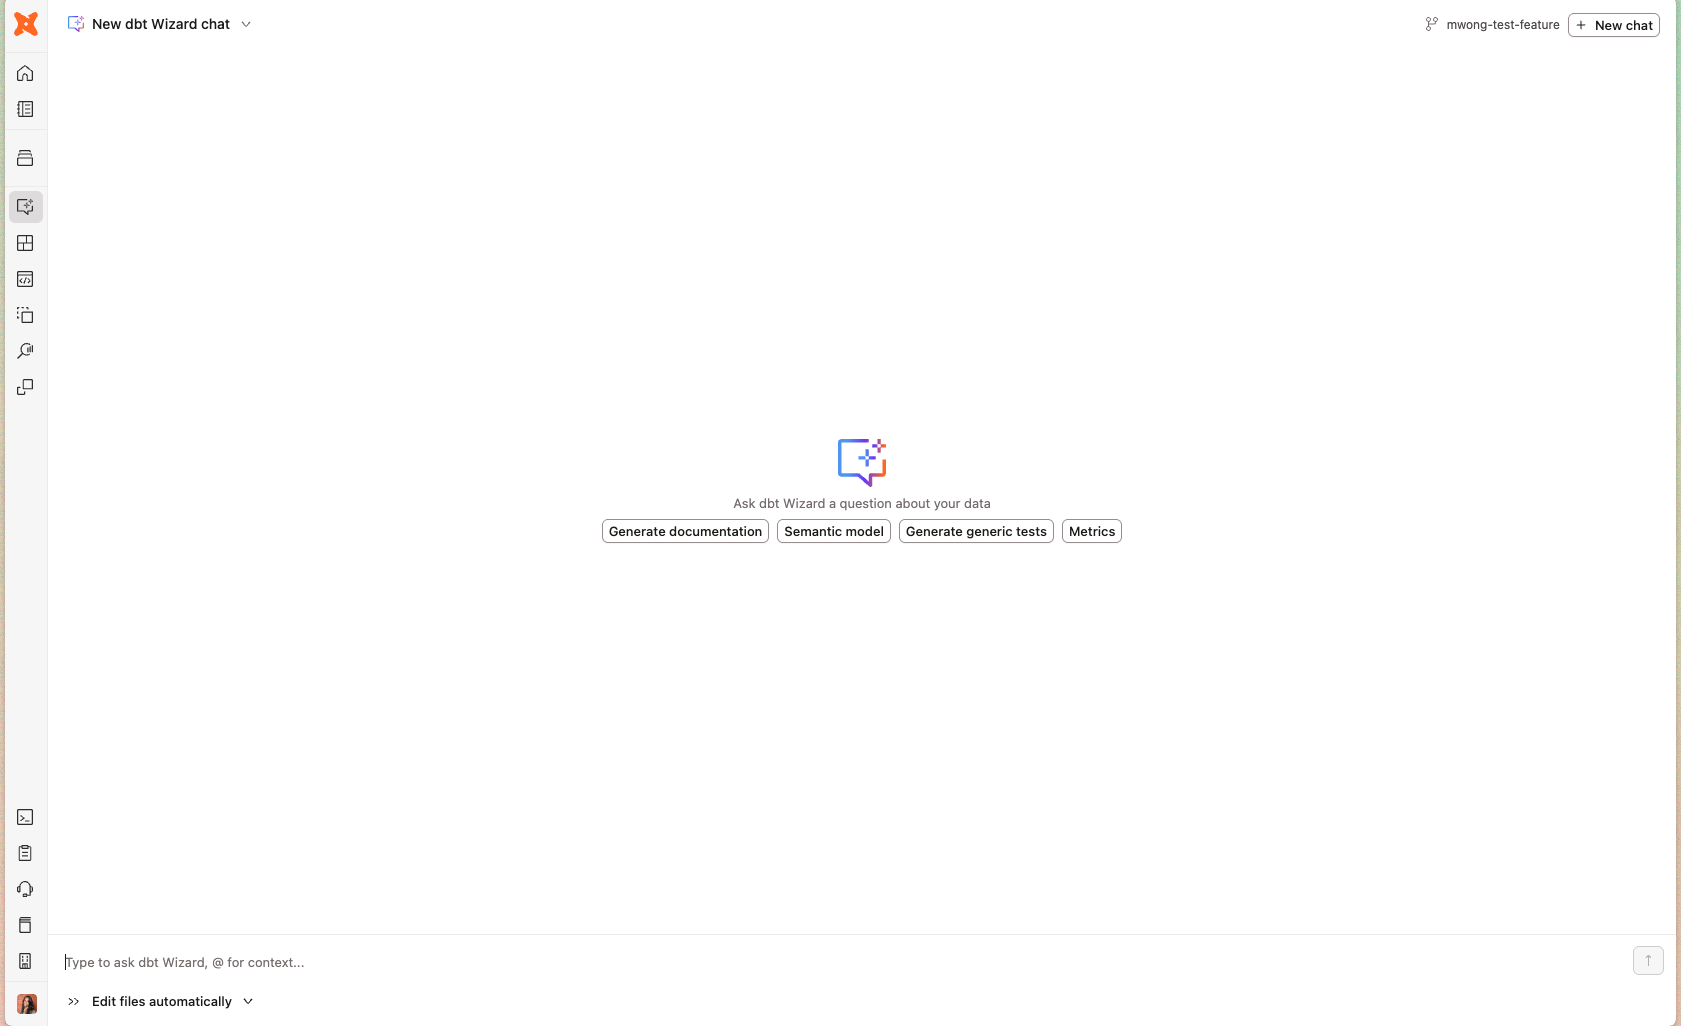
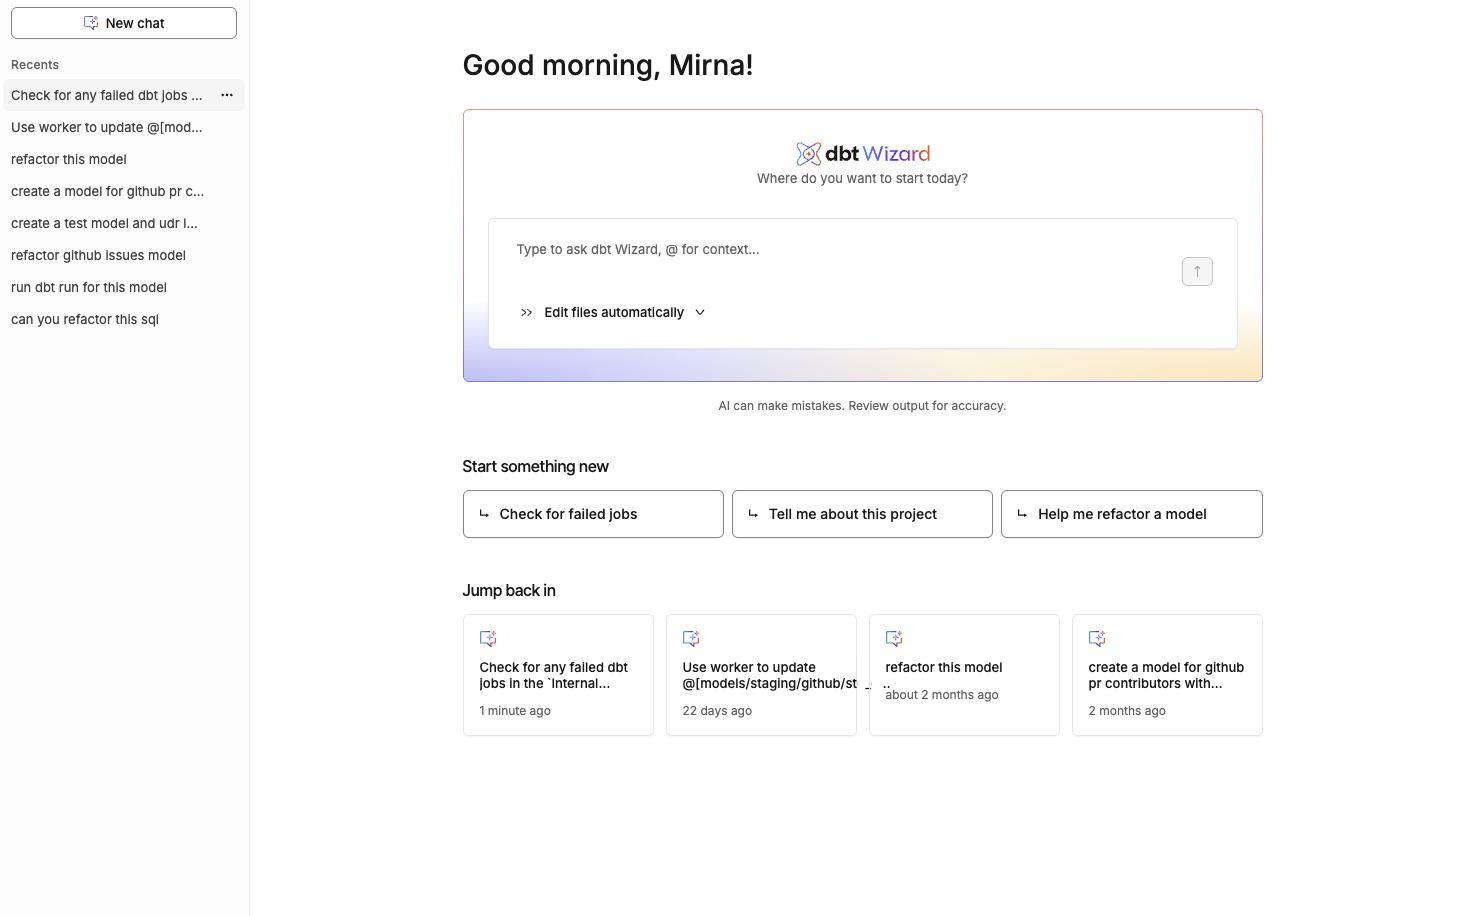
update wizard with new changes and ims=gs

diff --git a/website/docs/docs/platform/wizard-platform.md b/website/docs/docs/platform/wizard-platform.md
@@ -4,6 +4,7 @@ id: "wizard-platform"
 sidebar_label: "Overview"
 description: "dbt Wizard in the dbt platform helps teams investigate, change, validate, and ship trusted dbt work with warehouse-aware AI."
 hide_table_of_contents: false
+image: /img/docs/dbt-platform/wizard-home-empty.png
 tags: [AI, Wizard]
 keywords: ["dbt Wizard", "dbt platform", "AI", "agent", "dbt"]
 ---
@@ -18,12 +19,16 @@ import WizardFeedbackCallout from '/snippets/_wizard-feedback-callout.md';
 <Constant name="wizard" /> helps teams ship trusted dbt changes faster and with less risk. It uses native dbt metadata, routes to the right tools, and validates with warehouse awareness so teams can investigate, change, validate, and ship in one place.
 </IntroText>
 
-<WizardFeedbackCallout />
+<Constant name="wizard" /> is more than a general coding agent with access to dbt. Built for governed data development in dbt, it understands lineage, documentation, tests, and semantic definitions, and accounts for dev builds, compute, run time, and post-build inspection. Its suggestions are grounded in your project's actual data _and_ context. 
 
-<Constant name="wizard" /> is more than a general coding agent with access to dbt. Built for governed data development in dbt, it understands lineage, documentation, tests, and semantic definitions, and accounts for dev builds, compute, run time, and post-build inspection. Its suggestions are grounded in your project's actual data _and_ context.
-
-In [approval mode](/docs/dbt-ai/wizard-how-it-works#approval-and-review), <Constant name="wizard" /> shows every file change as a diff before anything is persisted. Built-in [dbt Agent Skills](https://github.com/dbt-labs/dbt-agent-skills) encode dbt best practices for consistent output.
 An admin must [enable <Constant name="wizard" />](/docs/platform/enable-dbt-ai) for your account before you can use it in the platform.
+
+<Constant name="dbt_wizard"/> comes with various features like:
+- Built in [agent mode](/docs/dbt-ai/wizard-ide?version=2.0#agent-modes) to help you manage agent control: 
+    - **Ask for approval** mode allows you to review and approval each file change before Wizard takes action
+    - **Edit files automatically** mode allows the agent to automatically make edits without approval.  
+- A simplified wayfinder bar shows your current project and branch and guides you through Git tasks, such as committing files or creating a branch.
+- Built-in [dbt Agent Skills](https://github.com/dbt-labs/dbt-agent-skills) encode dbt best practices for consistent output.
 
 <WizardSupportedProviders />
 

diff --git a/website/docs/docs/platform/wizard-home.md b/website/docs/docs/platform/wizard-home.md
@@ -4,6 +4,7 @@ id: "wizard-home"
 description: "Use the dbt Wizard home tab in the dbt platform for an agent-native development workflow — iterate in natural language, review inline diffs and DAG previews, and validate changes without leaving the agent."
 sidebar_label: "Wizard home tab"
 tags: [AI, Wizard, Platform]
+image: /img/docs/dbt-platform/wizard-home-empty.png
 ---
 
 import WizardPlatformPreviewDisclaimer from '/snippets/_wizard-platform-preview-disclaimer.md';
@@ -18,8 +19,8 @@ The <Constant name="wizard" /> home tab is an agent-native development experienc
 <WizardFeedbackCallout />
 
 <DocCarousel slidesPerView={1}>
-<Lightbox src="/img/docs/dbt-platform/wizard-home-agent.png" width="95%" title="dbt Wizard home tab — agent refactoring a model with an inline SQL diff" />
 <Lightbox src="/img/docs/dbt-platform/wizard-home-empty.png" width="95%" title="dbt Wizard home tab — empty state with quick-start prompts" />
+<Lightbox src="/img/docs/dbt-platform/wizard-home-agent.png" width="95%" title="dbt Wizard home tab — agent refactoring a model with an inline SQL diff" />
 </DocCarousel>
 
 The <Constant name="wizard" /> home tab is complementary to the [<Constant name="wizard" /> experience in <Constant name="studio_ide" />](/docs/dbt-ai/wizard-ide). Where the <Constant name="studio_ide" /> supports users working directly within a traditional IDE environment, the home tab is purpose-built for agent-native development &mdash; it reduces overhead and keeps you focused on supervising and validating agent-generated work.

diff --git a/website/docs/docs/dbt-versions/release-notes.md b/website/docs/docs/dbt-versions/release-notes.md
@@ -20,6 +20,7 @@ For <Constant name="fusion_engine" /> updates, refer to the [dbt-fusion changelo
 
 ## July 2026
 
+- **Enhancement:** The [<Constant name="wizard" />](/docs/platform/wizard-platform) in <Constant name="dbt_platform"/> has a redesigned empty state with updated suggested prompts to help you discover different ways to get started. A new wayfinder bar keeps your current project and branch visible and highlights the next step as you move from asking questions to changing code and opening a pull request.
 - **Behavior change:** You can no longer create a [service token](/docs/dbt-apis/service-tokens) using an account-scoped [personal access token](/docs/dbt-apis/user-tokens) (PAT). Requests to the service tokens endpoint authenticated with a PAT now return a `400` error. Use a service token to create new ones instead.
 - **New:** You can now access dbt State settings from **Account settings** > **Billing & Usage**, previously found under **State**. You can manage your trial, enable dbt State on environments and jobs, and set spend alerts &mdash; all in one place. For details, refer to [dbt State trial and billing](/docs/deploy/dbt-state-trial).
 

diff --git a/website/snippets/_wizard-ide.md b/website/snippets/_wizard-ide.md
@@ -48,6 +48,8 @@ The <Constant name="wizard" /> panel contains:
 
 <Lightbox src="/img/docs/dbt-platform/dev-agent-copilot-panel.png" width="95%" title="The Wizard panel in the Studio IDE showing quick-action buttons, text input field, and agent mode controls." />
 
+<Constant name="dbt_wizard"/> also has a simplified wayfinder bar above the text input field. The wayfinder bar shows your current project and branch and guides you through Git tasks, such as committing files or creating a branch.
+
 </Expandable>
 
 <Expandable alt_header="Agent modes">
